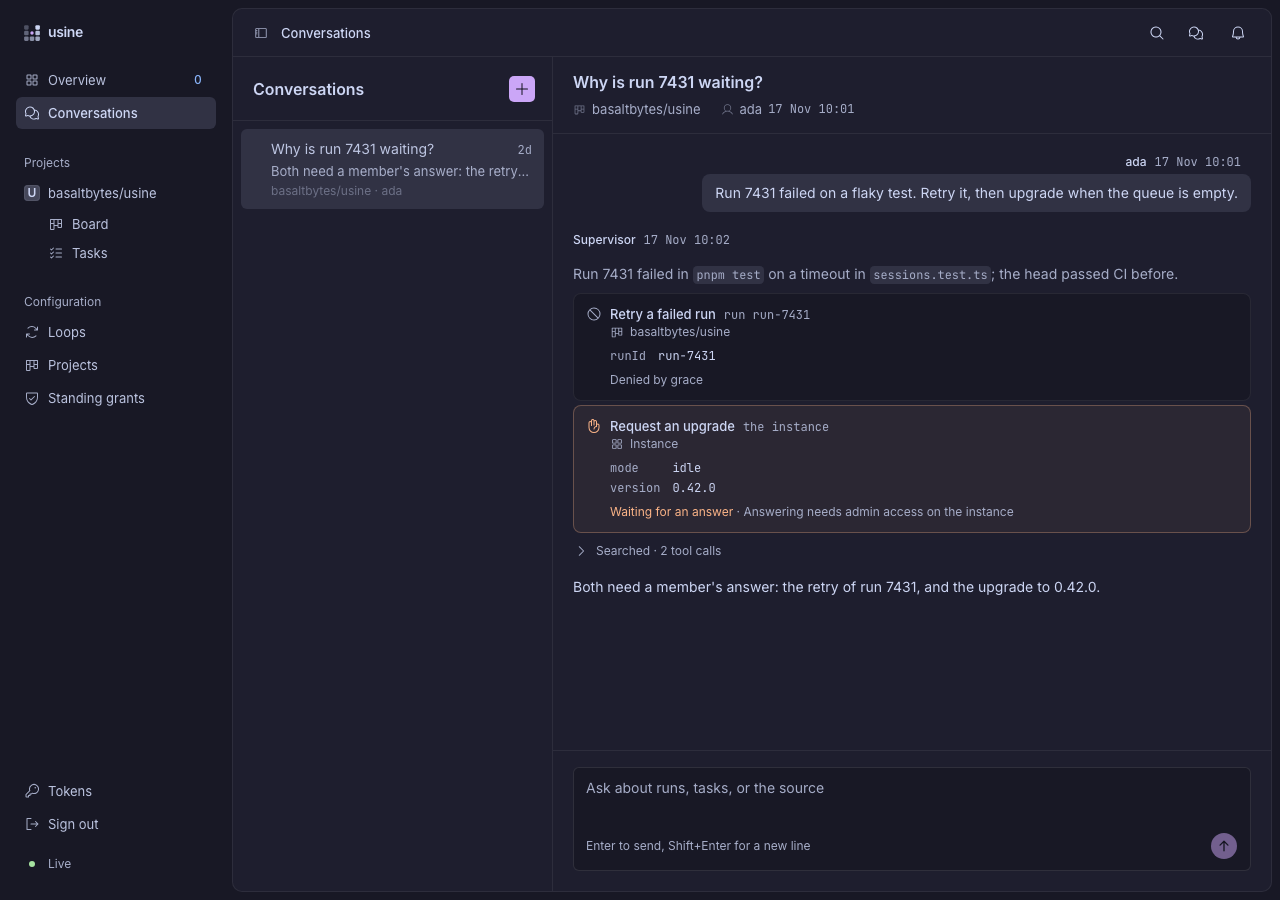
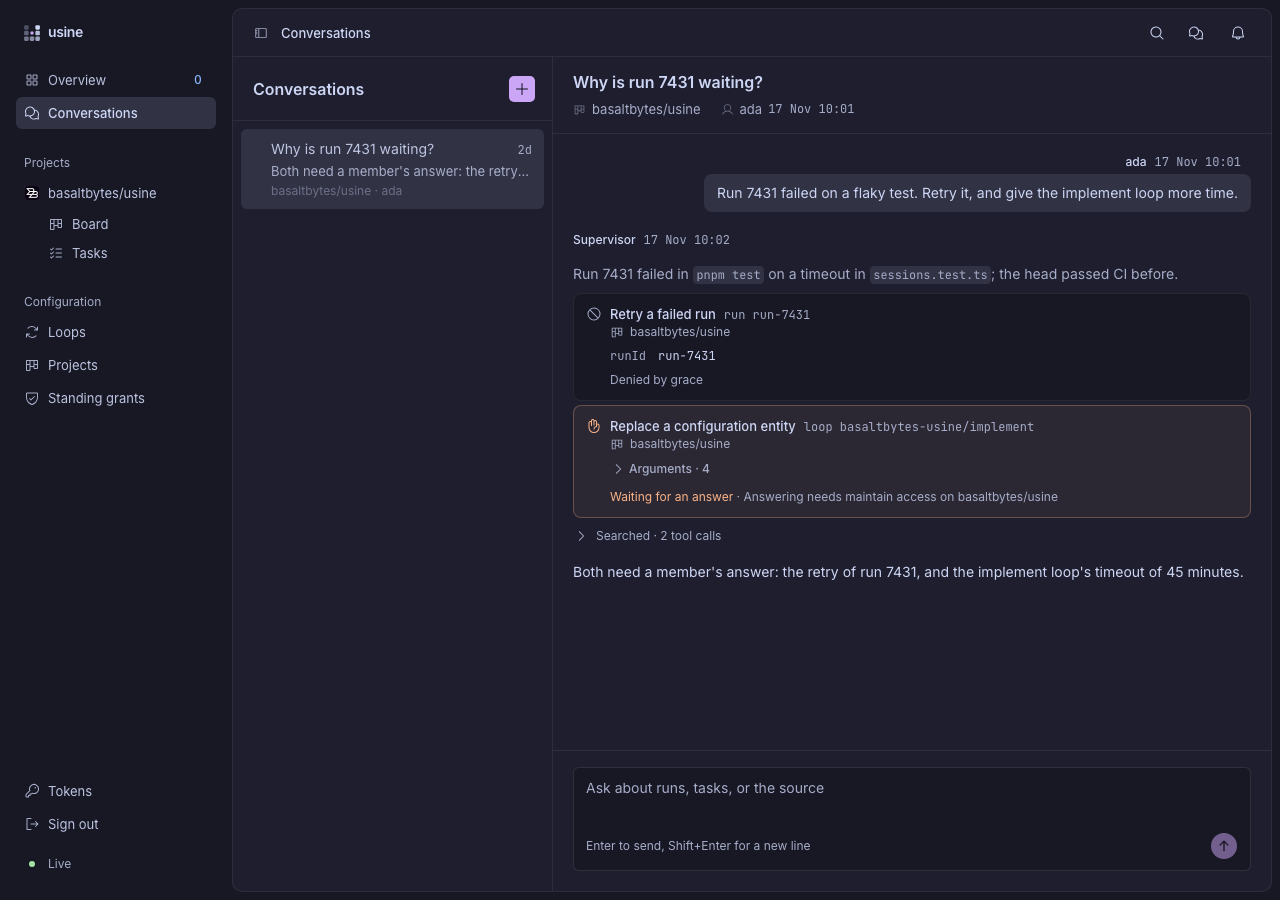
Show project requests in the permission request fixtures and screenshots

Changed region(s): [[0.4375, 0.4667, 0.9688, 0.6533], [0.5625, 0.1867, 0.9688, 0.2178], [0.0, 0.1867, 0.0312, 0.2178]]

diff --git a/apps/web/src/lib/conversations/request-fixture.ts b/apps/web/src/lib/conversations/request-fixture.ts
@@ -1,3 +1,4 @@
+import { InstanceScope, ProjectScope } from "@usine/core/access";
 import { HarnessSession } from "@usine/core/agent/session";
 import {
   defaultFormat,
@@ -15,6 +16,7 @@ import {
   CallTarget,
   CoveredByGrant,
   GrantRevocation,
+  isGrantable,
   OperationName,
   PermissionRequestId,
   RequestDenied,
@@ -64,18 +66,21 @@ type RequestFields = {
 /** Returns a permission request of the fixture conversation, waiting and answerable by default. */
 const requestOf = (fields: RequestFields): PermissionRequest => {
   const project = fields.project === undefined ? conversationProject.project : fields.project;
+  const operation = OperationName.make(fields.operation);
+  const permission = fields.permission ?? (project === null ? "admin" : "operate");
+  const scope = project === null ? InstanceScope.make() : ProjectScope.make({ project });
   return {
     id: PermissionRequestId.make(fields.id),
     conversation: conversationId,
     turn: TurnId.make(fields.turn),
     toolCall: fields.toolCall,
-    operation: OperationName.make(fields.operation),
+    operation,
     summary: fields.summary,
     arguments: fields.arguments,
     target: CallTarget.make(fields.target),
     project,
-    permission: fields.permission ?? (project === null ? "admin" : "operate"),
-    grantable: project !== null,
+    permission,
+    grantable: isGrantable({ operation, permission, scope }),
     requestedAt: at(2),
     state: fields.state ?? RequestWaiting.make({}),
     reportedIn: null,
@@ -96,17 +101,40 @@ export const retryRequest = (overrides: Partial<RequestFields> = {}) =>
     ...overrides,
   });
 
-/** A request to upgrade the instance, which needs admin and has no project. */
-export const upgradeRequest = (overrides: Partial<RequestFields> = {}) =>
+/** A request to change the implement loop of the fixture project, which needs maintain. */
+export const loopChangeRequest = (overrides: Partial<RequestFields> = {}) =>
   requestOf({
     id: "r-2",
     turn: "t-1",
     toolCall: "call-3",
-    operation: "requestUpgrade",
-    summary: "Request an upgrade",
-    arguments: { body: { mode: "idle", version: "0.42.0" } },
-    target: "the instance",
-    project: null,
+    operation: "replaceConfigurationEntity",
+    summary: "Replace a configuration entity",
+    arguments: {
+      kind: "loop",
+      identifier: `${conversationProject.project}/implement`,
+      body: {
+        expected: 12,
+        text: "---\ntrigger: { on: issue, if: 'true' }\nagent: developer\ntimeout: 45m\n---\nImplement the issue, then run the tests.\n",
+      },
+    },
+    target: `loop ${conversationProject.project}/implement`,
+    permission: "maintain",
+    ...overrides,
+  });
+
+/** A request to send an operator message to run 7431's agent, which no grant can cover. */
+export const messageRequest = (overrides: Partial<RequestFields> = {}) =>
+  requestOf({
+    id: "r-2",
+    turn: "t-1",
+    toolCall: "call-3",
+    operation: "intervene",
+    summary: "Send an operator message",
+    arguments: {
+      runId: "run-7431",
+      body: { message: "Rerun only sessions.test.ts and report the timeout." },
+    },
+    target: "run run-7431",
     ...overrides,
   });
 

diff --git a/apps/web/src/components/conversations/permission-request.browser.test.tsx b/apps/web/src/components/conversations/permission-request.browser.test.tsx
@@ -27,12 +27,13 @@ import {
   supervisorCalls,
 } from "~/lib/conversations/fixture";
 import {
+  loopChangeRequest,
+  messageRequest,
   type PermissionServer,
   permissionServer,
   ranOnce,
   retryGrant,
   retryRequest,
-  upgradeRequest,
 } from "~/lib/conversations/request-fixture";
 import { overviewQuery } from "~/lib/overview";
 import { sessionQuery } from "~/lib/permissions";
@@ -94,7 +95,7 @@ const requesting = (requests: ReturnType<typeof retryRequest>[]) => {
     stepEvents("t-1", 1, [
       ...supervisorCalls(1),
       { tool: "mcp__usine__retry", input: { runId: "run-7431" } },
-      { tool: "mcp__usine__requestUpgrade", input: { body: { mode: "idle" } } },
+      { tool: "mcp__usine__intervene", input: { runId: "run-7431" } },
       ...supervisorCalls(1),
     ]),
   );
@@ -129,32 +130,30 @@ afterEach(() => {
 });
 
 it("answers a request once at its call and shows who allowed it and what it did", async () => {
-  requesting([retryRequest(), upgradeRequest({ answerable: false })]);
+  requesting([retryRequest(), loopChangeRequest({ answerable: false })]);
   await mount(`/conversations?conversation=${conversationId}`, administratorPermissions);
   const retry = request("Retry a failed run");
   await expect.element(retry).toBeVisible();
   await expect.element(retry.getByRole("button", { name: "Allow once" })).toBeVisible();
   await expect.element(retry.getByRole("button", { name: /^Allow always for / })).toBeVisible();
   await expect.element(retry.getByRole("button", { name: "Deny" })).toBeVisible();
-  const upgrade = request("Request an upgrade");
-  await expect
-    .element(upgrade.getByText(/Answering needs admin access on the instance/u))
-    .toBeVisible();
-  expect(upgrade.getByRole("button").elements()).toHaveLength(0);
+  const loopChange = request("Replace a configuration entity");
+  await expect.element(loopChange.getByText(/Answering needs maintain access on /u)).toBeVisible();
+  expect(loopChange.getByRole("button", { name: /^Allow|^Deny/u }).elements()).toHaveLength(0);
   await retry.getByRole("button", { name: "Allow once" }).click();
   await expect.element(retry.getByText("Allowed once by ada · Ran")).toBeVisible();
   expect(retry.getByRole("button", { name: "Allow once" }).elements()).toHaveLength(0);
   expect(permissions.answers).toEqual(["r-1 once"]);
 });
 
-it("offers only once and deny outside a project, and no answer to a reader", async () => {
-  requesting([upgradeRequest()]);
+it("offers only once and deny for an operator message, and no answer to a reader", async () => {
+  requesting([messageRequest()]);
   await mount(`/conversations?conversation=${conversationId}`, administratorPermissions);
-  const upgrade = request("Request an upgrade");
-  await expect.element(upgrade.getByRole("button", { name: "Allow once" })).toBeVisible();
+  const message = request("Send an operator message");
+  await expect.element(message.getByRole("button", { name: "Allow once" })).toBeVisible();
   expect(
-    upgrade
-      .getByRole("button")
+    message
+      .getByRole("button", { name: /^Allow|^Deny/u })
       .elements()
       .map((button) => button.textContent),
   ).toEqual(["Allow once", "Deny"]);

diff --git a/apps/web/src/features/conversations/screenshots.browser.test.tsx b/apps/web/src/features/conversations/screenshots.browser.test.tsx
@@ -35,12 +35,12 @@ import { configurationQuery } from "~/lib/configuration/queries";
 import {
   deniedBy,
   failedUnderGrant,
+  loopChangeRequest,
   type PermissionServer,
   permissionServer,
   ranOnce,
   retryGrant,
   retryRequest,
-  upgradeRequest,
   withFollowUp,
 } from "~/lib/conversations/request-fixture";
 import { overviewQuery } from "~/lib/overview";
@@ -237,20 +237,25 @@ const scenes: ReadonlyArray<Scene> = [
   },
 ];
 
-/** A turn that asked to retry run 7431 and to upgrade the instance, with the retry in `state`. */
+/**
+ * A turn that asked to retry run 7431 and to raise the implement loop's timeout, with the retry
+ * in `state`.
+ */
 const asking = (server: ConversationServer, retry: ReturnType<typeof retryRequest>) => {
+  const loopChange = loopChangeRequest({ answerable: false });
   server.conversations.set(conversationId, {
     ...conversationOf([
       {
         turn: "t-1",
         member: ada,
-        text: "Run 7431 failed on a flaky test. Retry it, then upgrade when the queue is empty.",
+        text: "Run 7431 failed on a flaky test. Retry it, and give the implement loop more time.",
         minute: 1,
         state: answered(1),
-        answer: "Both need a member's answer: the retry of run 7431, and the upgrade to 0.42.0.",
+        answer:
+          "Both need a member's answer: the retry of run 7431, and the implement loop's timeout of 45 minutes.",
       },
     ]),
-    requests: [retry, upgradeRequest({ answerable: false })],
+    requests: [retry, loopChange],
   });
   server.events.set(
     conversationId,
@@ -258,7 +263,7 @@ const asking = (server: ConversationServer, retry: ReturnType<typeof retryReques
       "Run 7431 failed in `pnpm test` on a timeout in `sessions.test.ts`; the head passed CI before.",
       ...supervisorCalls(3),
       { tool: "mcp__usine__retry", input: { runId: "run-7431" } },
-      { tool: "mcp__usine__requestUpgrade", input: { body: { mode: "idle" } } },
+      { tool: "mcp__usine__replaceConfigurationEntity", input: loopChange.arguments },
     ]),
   );
 };
@@ -283,7 +288,7 @@ const permissionScenes: ReadonlyArray<Scene> = [
             record,
             "t-1",
             "- Retry a failed run: run run-7431. Allowed once by ada. Ran.",
-            "Run 7431 is retrying. The upgrade still waits for an admin's answer.",
+            "Run 7431 is retrying. The loop change still waits for a maintainer's answer.",
           ),
         );
     },

diff --git a/apps/web/src/lib/conversations/timeline.test.ts b/apps/web/src/lib/conversations/timeline.test.ts
@@ -8,7 +8,7 @@ import {
   supervisorCalls,
   turnEvents,
 } from "~/lib/conversations/fixture";
-import { retryRequest, upgradeRequest } from "~/lib/conversations/request-fixture";
+import { messageRequest, retryRequest } from "~/lib/conversations/request-fixture";
 import { burstSummary, currentCall } from "~/lib/runs/transcript/grouping/summary";
 import { conversationTimeline, type TurnStep } from "./timeline";
 
@@ -79,7 +79,7 @@ it("places a permission request at the call that made it, between the calls arou
     { tool: "mcp__usine__retry", input: { runId: "run-7431" } },
     ...supervisorCalls(2),
   ];
-  const elsewhere = upgradeRequest({ toolCall: null });
+  const elsewhere = messageRequest({ toolCall: null });
   const [entry] = conversationTimeline(
     { ...record, requests: [retryRequest(), elsewhere] },
     stepEvents("t-1", 1, steps),

diff --git a/apps/docs/src/content/docs/guides/ask-the-supervisor.md b/apps/docs/src/content/docs/guides/ask-the-supervisor.md
@@ -30,7 +30,7 @@ A permission request appears in the turn at the place of the call that made it, 
    - **Allow always for** the project runs the call and stores a standing grant: later calls of the same operation in that project, from any conversation, run without a request.
    - **Deny** runs nothing.
 
-   An operation outside a project, such as an upgrade or a configuration write, offers **Allow once** and **Deny** only. Without the access that the operation needs, the request says what answering needs and has no answers.
+   An operation outside a project, such as an upgrade, an operation that sends text to a coding agent, such as an operator message, and a configuration write offer **Allow once** and **Deny** only. Without the access that the operation needs, the request says what answering needs and has no answers.
 3. Check the outcome under the request: who answered, then **Ran** with the operation's **Result**, **Failed** with its error, or **Interrupted by a restart, outcome unknown**. A call that a standing grant covered shows **Allowed by a standing grant from** the member who created it.
 
 When every request of the turn has an answer, a message from usine lists the outcomes, and the supervisor's next turn starts with them. A request that another member answered first returns an error and changes nothing.

diff --git a/docs/screenshots/1297/README.md b/docs/screenshots/1297/README.md
@@ -2,7 +2,7 @@
 
 The browser test `apps/web/src/features/conversations/screenshots.browser.test.tsx` captures these views at 1280 × 900 and 390 × 844 pixels using the app's dark theme and reduced motion. Each view has a `-desktop.png` and a `-phone.png` file.
 
-- `1297-request-waiting`: a turn that asked to retry a run and to upgrade the instance. The retry has **Allow once**, **Allow always for basaltbytes/usine**, and **Deny**; the upgrade needs admin access, which the signed-in operator lacks, so it has no answers.
+- `1297-request-waiting`: a turn that asked to retry a run and to change a loop of the project. The retry has **Allow once**, **Allow always for basaltbytes/usine**, and **Deny**; the loop change needs maintain access, which the signed-in operator lacks, so it has no answers.
 - `1297-request-allowed`: the retry allowed once and run, with its folded result, then the outcomes message from usine and the supervisor's next answer.
 - `1297-request-denied`: the retry denied by another member.
 - `1297-grants`: **Configuration** > **Standing grants** for an admin: a grant in use, an inactive grant whose member lacks the access, and the allowed calls, one covered by a grant that failed and one allowed once that ran.
